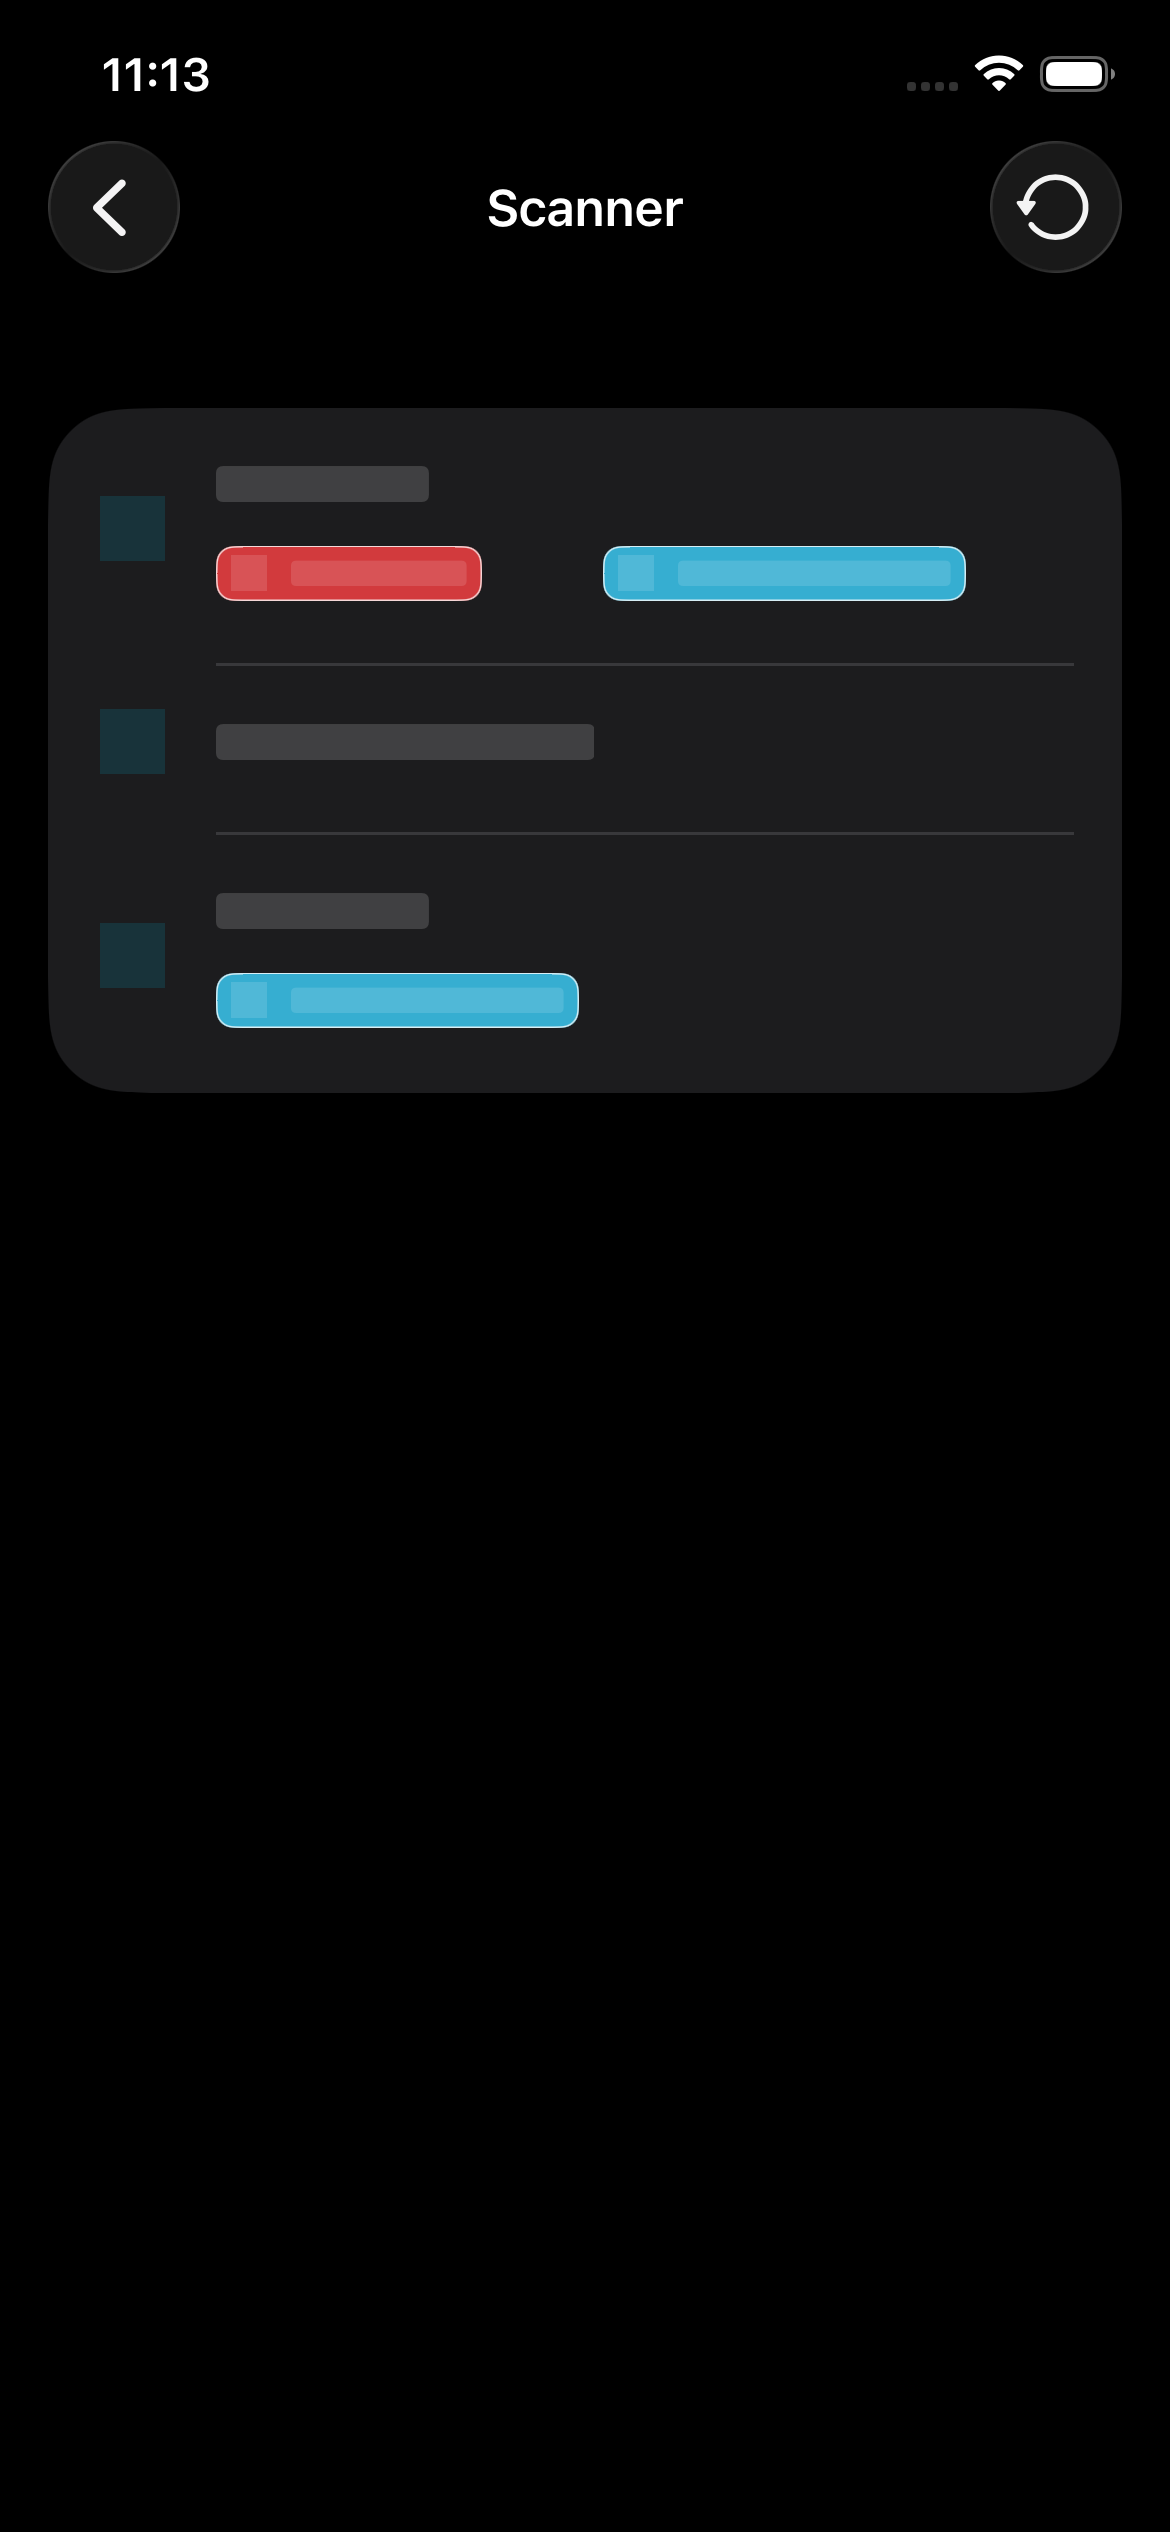
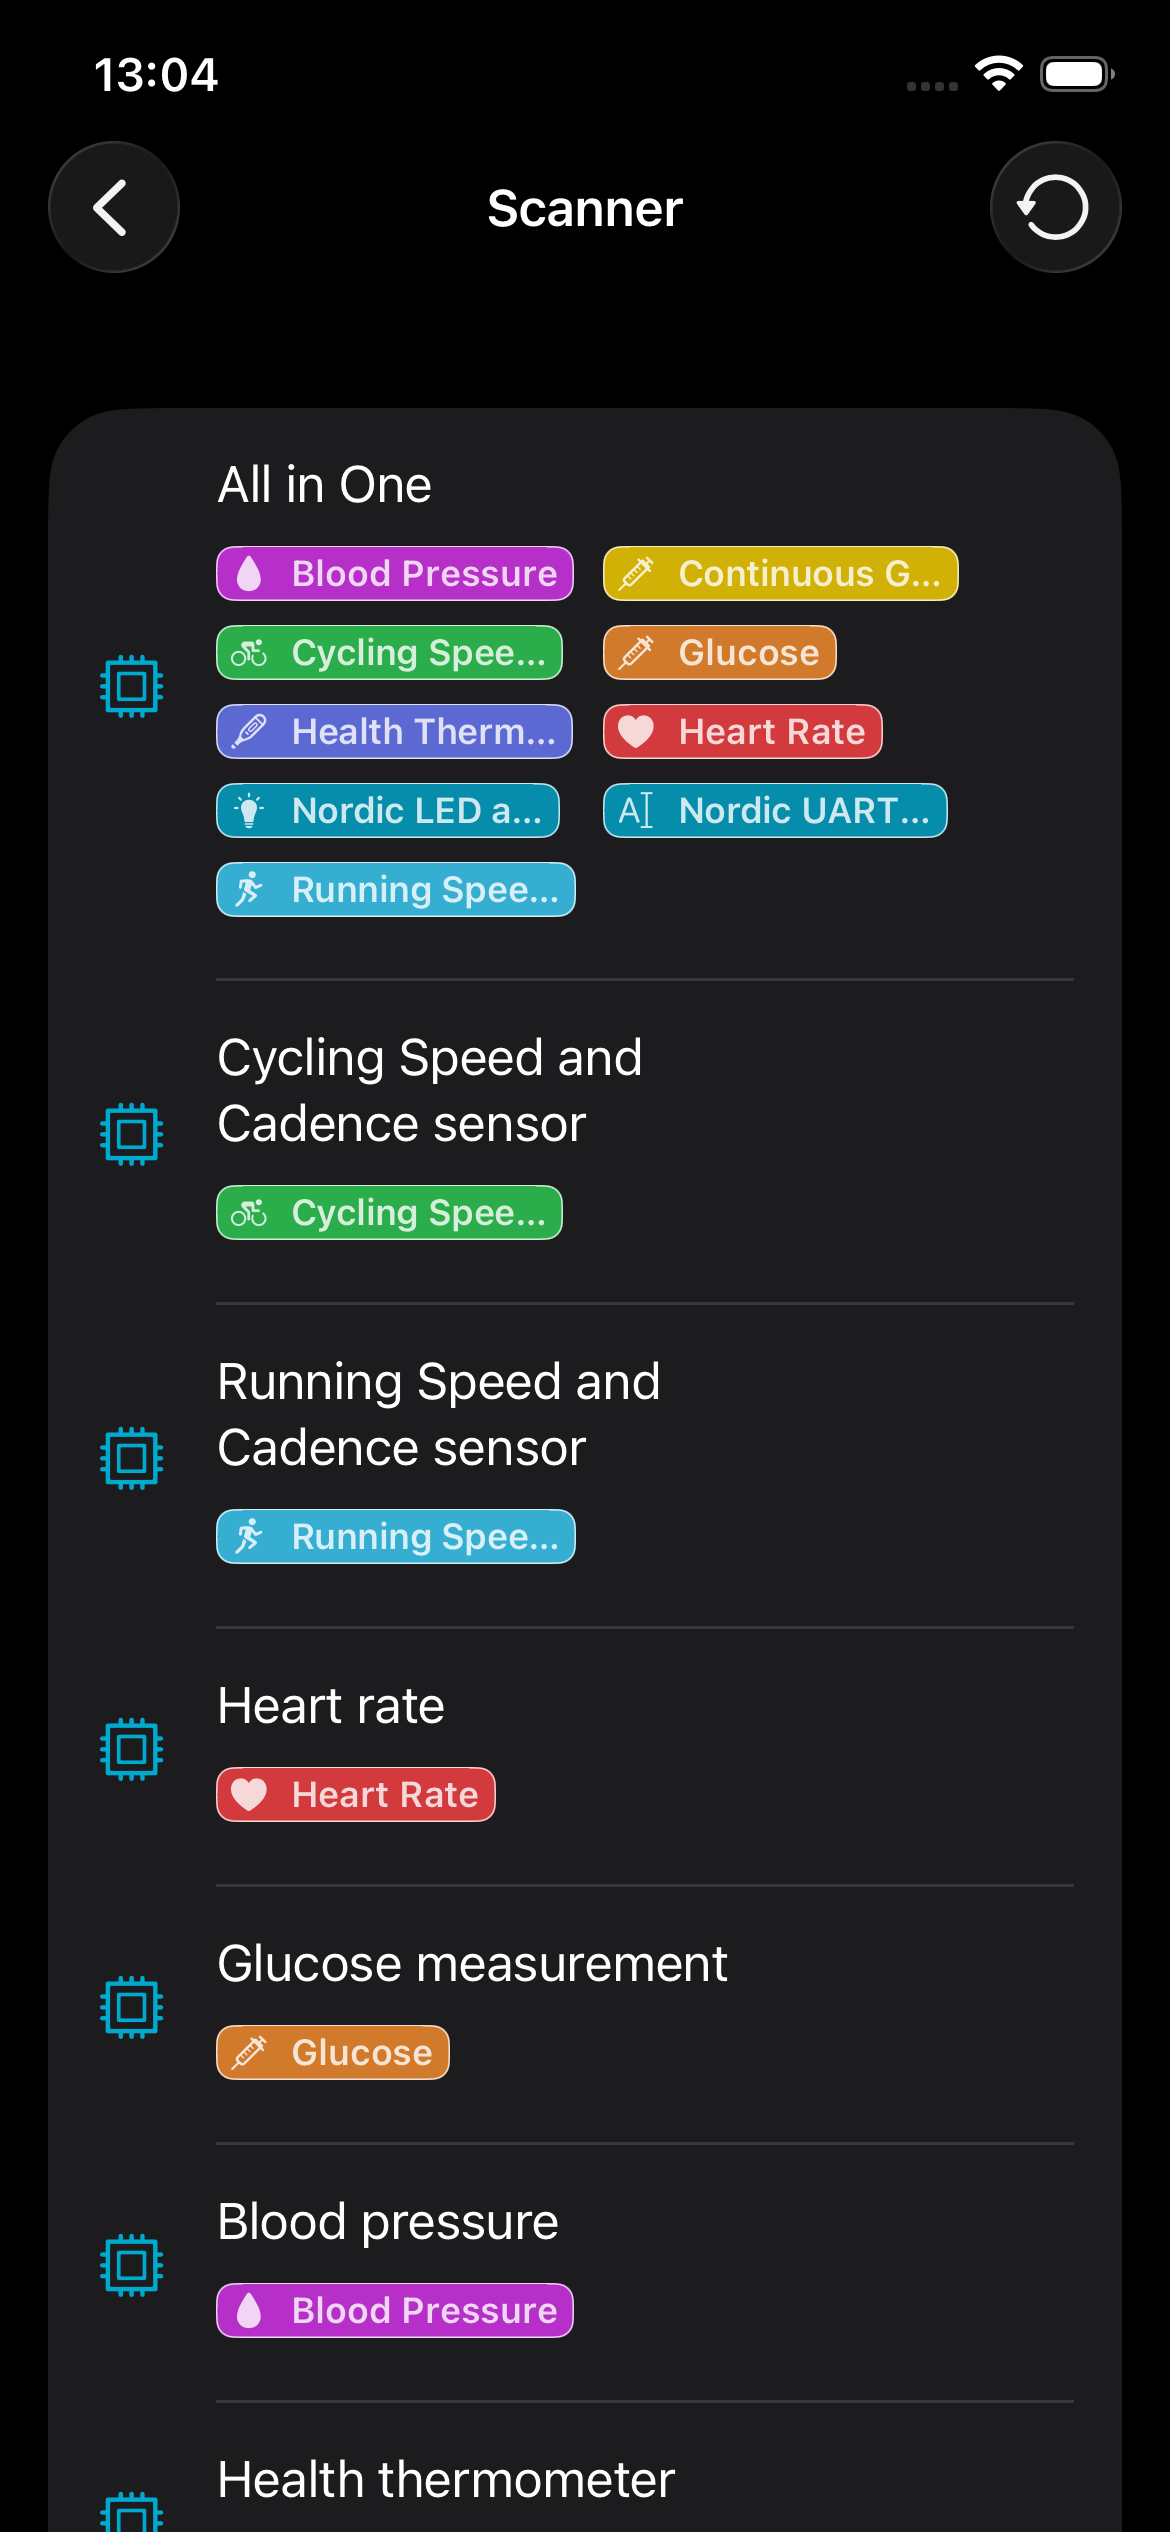
Generate more screenshots.

diff --git a/fastlane/screenshots/screenshots.html b/fastlane/screenshots/screenshots.html
@@ -100,7 +100,7 @@
       <hr>
       <table>
         <tr>
-          <th colspan="2">
+          <th colspan="4">
             <a id="en-US-iPad Air" class="deviceName" href="#en-US-iPad Air">iPad Air</a>
           </th>
         </tr>
@@ -111,8 +111,18 @@
             </a>
           </td>
           <td>
+            <a href="./en-US/iPad Air 13-inch (M3)-HRSScreen.png" target="_blank" class="screenshotLink">
+              <img class="screenshot" src="./en-US/iPad Air 13-inch (M3)-HRSScreen.png" style="width: 100%;" alt="en-US iPad Air" data-tab="1" data-counter="2">
+            </a>
+          </td>
+          <td>
             <a href="./en-US/iPad Air 13-inch (M3)-ScannerScreen.png" target="_blank" class="screenshotLink">
-              <img class="screenshot" src="./en-US/iPad Air 13-inch (M3)-ScannerScreen.png" style="width: 100%;" alt="en-US iPad Air" data-tab="1" data-counter="2">
+              <img class="screenshot" src="./en-US/iPad Air 13-inch (M3)-ScannerScreen.png" style="width: 100%;" alt="en-US iPad Air" data-tab="1" data-counter="3">
+            </a>
+          </td>
+          <td>
+            <a href="./en-US/iPad Air 13-inch (M3)-UARTScreen.png" target="_blank" class="screenshotLink">
+              <img class="screenshot" src="./en-US/iPad Air 13-inch (M3)-UARTScreen.png" style="width: 100%;" alt="en-US iPad Air" data-tab="1" data-counter="4">
             </a>
           </td>
         </tr>
@@ -136,6 +146,23 @@
           </td>
         </tr>
       </table>
+      <h2 id="iPad Air 13-inch (M3)-HRSScreen" class="screen">iPad Air 13-inch (M3)-HRSScreen</h2>
+      <hr>
+      <table>
+        <tr>
+          <th colspan="1">
+            <a id="iPad Air 13-inch (M3)-HRSScreen-iPad Air" class="deviceName" href="#iPad Air 13-inch (M3)-HRSScreen-iPad Air">iPad Air</a>
+          </th>
+        </tr>
+        <tr>
+          <td>
+            <a href="./en-US/iPad Air 13-inch (M3)-HRSScreen.png" target="_blank" class="screenshotLink">
+              <img class="screenshot" src="./en-US/iPad Air 13-inch (M3)-HRSScreen.png" style="width: 100%;" alt="en-US iPad Air" data-tab="2" data-counter="2">
+            </a>
+            <div class="caption">en-US</div>
+          </td>
+        </tr>
+      </table>
       <h2 id="iPad Air 13-inch (M3)-ScannerScreen" class="screen">iPad Air 13-inch (M3)-ScannerScreen</h2>
       <hr>
       <table>
@@ -147,7 +174,24 @@
         <tr>
           <td>
             <a href="./en-US/iPad Air 13-inch (M3)-ScannerScreen.png" target="_blank" class="screenshotLink">
-              <img class="screenshot" src="./en-US/iPad Air 13-inch (M3)-ScannerScreen.png" style="width: 100%;" alt="en-US iPad Air" data-tab="2" data-counter="2">
+              <img class="screenshot" src="./en-US/iPad Air 13-inch (M3)-ScannerScreen.png" style="width: 100%;" alt="en-US iPad Air" data-tab="2" data-counter="3">
+            </a>
+            <div class="caption">en-US</div>
+          </td>
+        </tr>
+      </table>
+      <h2 id="iPad Air 13-inch (M3)-UARTScreen" class="screen">iPad Air 13-inch (M3)-UARTScreen</h2>
+      <hr>
+      <table>
+        <tr>
+          <th colspan="1">
+            <a id="iPad Air 13-inch (M3)-UARTScreen-iPad Air" class="deviceName" href="#iPad Air 13-inch (M3)-UARTScreen-iPad Air">iPad Air</a>
+          </th>
+        </tr>
+        <tr>
+          <td>
+            <a href="./en-US/iPad Air 13-inch (M3)-UARTScreen.png" target="_blank" class="screenshotLink">
+              <img class="screenshot" src="./en-US/iPad Air 13-inch (M3)-UARTScreen.png" style="width: 100%;" alt="en-US iPad Air" data-tab="2" data-counter="4">
             </a>
             <div class="caption">en-US</div>
           </td>

diff --git a/nRF-ToolboxUITests/ScreenshotsTests.swift b/nRF-ToolboxUITests/ScreenshotsTests.swift
@@ -30,14 +30,14 @@ final class ScreenshotsTests: XCTestCase {
         let scannerButton = app/*@START_MENU_TOKEN@*/.staticTexts["Connect to Device"]/*[[".buttons[\"scannerButton\"].staticTexts",".buttons.staticTexts[\"Connect to Device\"]",".staticTexts[\"Connect to Device\"]"],[[[-1,2],[-1,1],[-1,0]]],[0]]@END_MENU_TOKEN@*/.firstMatch
         scannerButton.tap()
         
+        sleep(sleepTime)
+        
         snapshot("ScannerScreen")
         
         sleep(sleepTime)
         app/*@START_MENU_TOKEN@*/.staticTexts["Cycling Speed and Cadence sensor"]/*[[".buttons[\"Cycling Speed and Cadence sensor\"].staticTexts",".buttons.staticTexts[\"Cycling Speed and Cadence sensor\"]",".staticTexts[\"Cycling Speed and Cadence sensor\"]"],[[[-1,2],[-1,1],[-1,0]]],[0]]@END_MENU_TOKEN@*/.firstMatch.tap()
         sleep(sleepTime)
         app/*@START_MENU_TOKEN@*/.buttons["device_item_0"]/*[[".buttons",".containing(.other, identifier: nil)",".containing(.staticText, identifier: \"Cycling Sensor\")",".containing(.image, identifier: \"cpu\")",".otherElements",".buttons[\"Cycling Sensor\"]",".buttons[\"device_item_0\"]"],[[[-1,6],[-1,5],[-1,4,2],[-1,0,1]],[[-1,3],[-1,2],[-1,1]],[[-1,6],[-1,5]]],[0]]@END_MENU_TOKEN@*/.firstMatch.tap()
-        sleep(sleepTime)
-        app/*@START_MENU_TOKEN@*/.sliders["29"]/*[[".otherElements.sliders[\"29\"]",".sliders",".sliders[\"29\"]"],[[[-1,2],[-1,1],[-1,0]]],[0]]@END_MENU_TOKEN@*/.firstMatch.swipeLeft()
         
         sleep(sleepTime)
         snapshot("CSCSScreen")
@@ -67,8 +67,9 @@ final class ScreenshotsTests: XCTestCase {
         sleep(sleepTime)
         snapshot("UARTScreen")
         sleep(sleepTime)
-        if backButton.exists { backButton.tap() }
-        
-        snapshot("MainScreen")
+        if backButton.exists {
+            backButton.tap()
+            snapshot("MainScreen")
+        }
     }
 }
